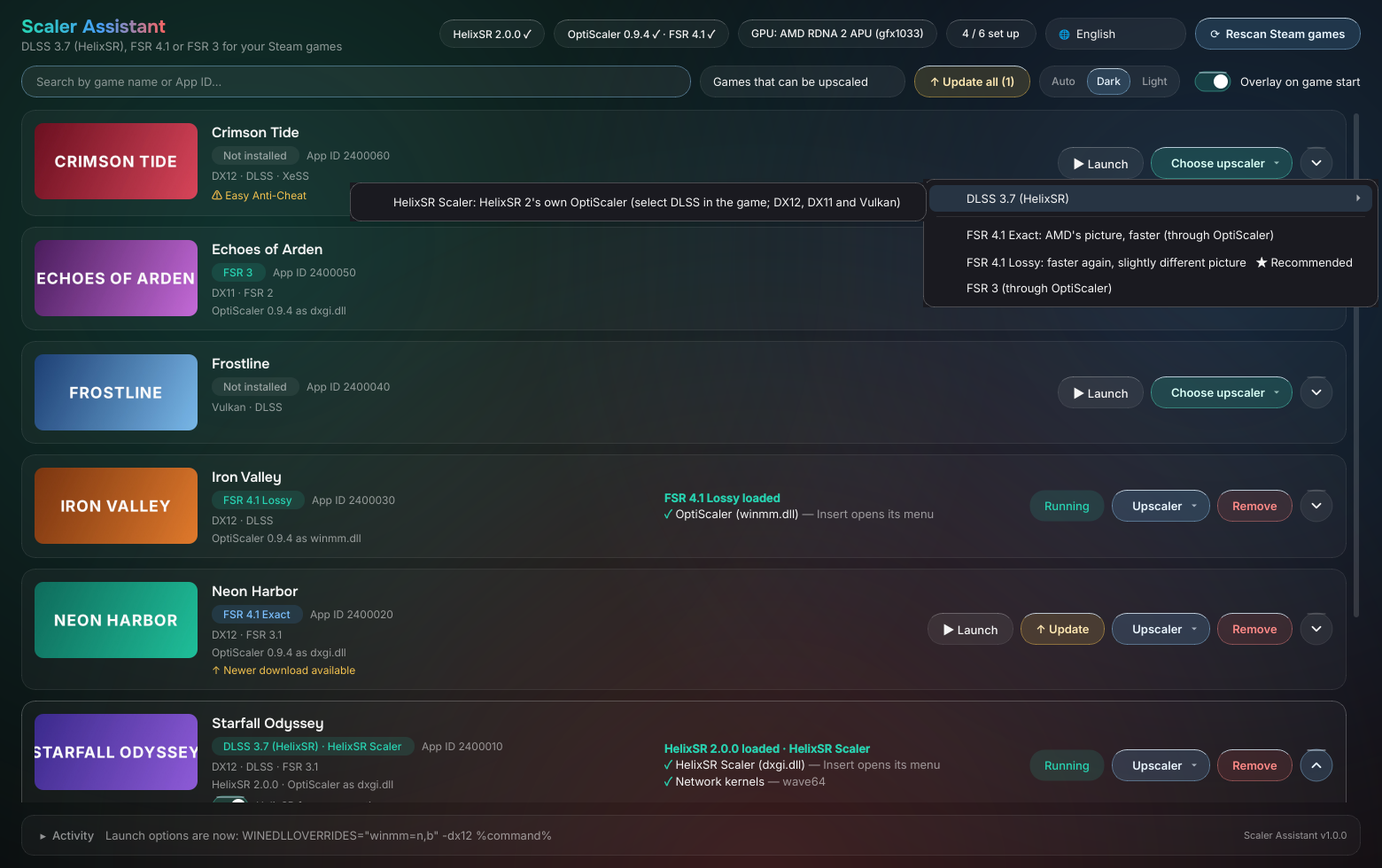
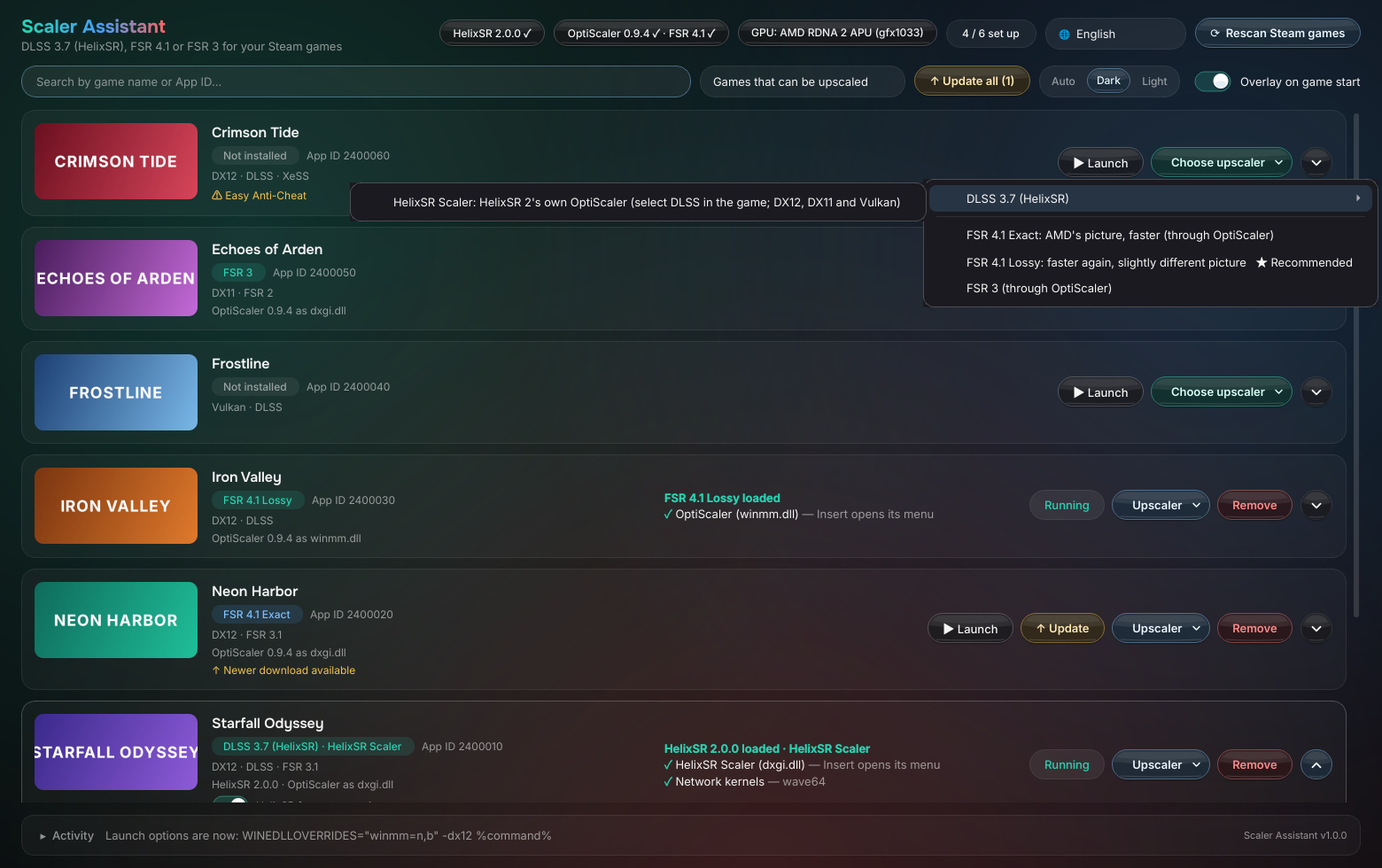
Paint buttons as raised crystal instead of a bright top edge
Every push button, switch knob and selected segment now stands up from
the page: a soft shadow below, a curved highlight that follows the rim
on the upper half and a glint along the lower rim. All layers are flat
translucent fills, still without gradients. The style sheet keeps sizing
the buttons and drawing their text.

diff --git a/scaler_assistant/theme.py b/scaler_assistant/theme.py
@@ -1,9 +1,10 @@
 """Visual system for Scaler Assistant, in MAKO Assistant's Liquid Glass style.
 
 Near-black ground lit by soft teal / blue / coral glows, glass panels with
-hairline borders. Buttons, switches and selected segments are clear crystal:
-a translucent tint, a light hairline border and a brighter top edge, never a
-gradient. Colours are tokens; `stylesheet()` renders the Qt style sheet from them.
+hairline borders. Buttons, switch knobs and selected segments are raised clear
+crystal: a translucent tint with a hairline border, a curved specular cap, a
+glint along the lower rim and a soft shadow, all flat translucent layers, never
+a gradient. Colours are tokens; `stylesheet()` renders the Qt style sheet from them.
 """
 
 from __future__ import annotations
@@ -13,7 +14,7 @@ from typing import Optional
 
 from PyQt6.QtCore import QPointF, QRectF, Qt
 from PyQt6.QtGui import (
-    QColor, QFontDatabase, QGuiApplication, QPainter, QPainterPath, QPixmap, QRadialGradient,
+    QColor, QFontDatabase, QGuiApplication, QPainter, QPainterPath, QPen, QPixmap, QRadialGradient,
 )
 
 TEAL, CORAL, PURPLE, BLUE = "#27d4b3", "#f86461", "#946eff", "#469ef6"
@@ -123,18 +124,82 @@ def qcolor(name: str) -> QColor:
     return QColor(value)
 
 
-def paint_glass(painter: QPainter, rect: QRectF, radius: float, fill: str = "glass",
-                border: str = "glass_border", edge: str = "glass_edge") -> None:
-    """A crystal surface: translucent tint, hairline border, brighter top edge (no gradient)."""
+def crystal_body(rect: QRectF, pressed: bool = False) -> QRectF:
+    """The raised crystal's own outline inside `rect` (room below it for its shadow)."""
+    drop = 1.0 if pressed else 0.0
+    return rect.adjusted(0.5, 0.5 + drop, -0.5, -2.5 + drop)
+
+
+def paint_crystal(painter: QPainter, rect: QRectF, radius: float, fill: str = "glass",
+                  border: str = "glass_border", hover: bool = False,
+                  pressed: bool = False) -> QRectF:
+    """A raised clear-crystal surface, painted with flat translucent layers only (no gradient):
+
+    * a soft shadow under it (a few stacked, offset translucent shapes),
+    * the translucent tint with a hairline border,
+    * a specular cap: a light, curved-edged shape over the upper part, inset from the rim,
+    * a thin glint along the inside of the lower rim (light passing through the crystal).
+
+    Pressed, it sits lower with a shorter shadow. Returns the body's rectangle."""
+    dark = _mode == "dark"
+    body = crystal_body(rect, pressed)
+    r = min(radius, body.height() / 2)
+    painter.save()
+    painter.setPen(Qt.PenStyle.NoPen)
+    layers = ((1.0, 0.30), (2.0, 0.16), (3.0, 0.07)) if dark else ((1.0, 0.12), (2.0, 0.07), (3.0, 0.03))
+    for offset, alpha in (layers[:1] if pressed else layers):
+        painter.setBrush(QColor(0, 0, 0, int(alpha * 255)))
+        painter.drawRoundedRect(body.translated(0, offset).adjusted(0.5, 0, -0.5, 0), r, r)
+    # a solid base keeps the tint readable over the glows and the cards
+    base = QColor(qcolor("bg")) if dark else QColor(255, 255, 255)
+    base.setAlphaF(0.55 if dark else 0.70)
+    painter.setBrush(base)
+    painter.drawRoundedRect(body, r, r)
     painter.setBrush(qcolor(fill))
     painter.setPen(qcolor(border))
-    painter.drawRoundedRect(rect, radius, radius)
-    path = QPainterPath()
-    inner = rect.adjusted(radius * 0.45, 0.5, -radius * 0.45, 0)
-    path.moveTo(inner.left(), inner.top() + 0.5)
-    path.lineTo(inner.right(), inner.top() + 0.5)
-    painter.setPen(qcolor(edge))
-    painter.drawPath(path)
+    painter.drawRoundedRect(body, r, r)
+
+    outline = QPainterPath()
+    outline.addRoundedRect(body.adjusted(1, 1, -1, -1), max(r - 1, 0), max(r - 1, 0))
+    painter.setClipPath(outline)
+    painter.setPen(Qt.PenStyle.NoPen)
+    # specular cap: the rim's own curve inset a little, cut off by a shallow arc at ~48 %,
+    # with a smaller cap on it for a soft falloff (stacked flat layers)
+    shine = 0.075 if dark else 0.30
+    if hover:
+        shine += 0.04 if dark else 0.10
+    if pressed:
+        shine *= 0.6
+    for inset, depth, alpha in ((1.6, 0.50, shine), (3.0, 0.34, shine * 0.8)):
+        ring = QPainterPath()
+        inner = body.adjusted(inset, inset * 0.8, -inset, -inset)
+        ring.addRoundedRect(inner, max(r - inset, 0), max(r - inset, 0))
+        cut = QPainterPath()
+        bottom = body.top() + body.height() * depth
+        cut.moveTo(body.left() - 1, body.top() - 1)
+        cut.lineTo(body.right() + 1, body.top() - 1)
+        cut.lineTo(body.right() + 1, bottom - body.height() * 0.10)
+        cut.quadTo(body.center().x(), bottom + body.height() * 0.10, body.left() - 1,
+                   bottom - body.height() * 0.10)
+        cut.closeSubpath()
+        painter.setBrush(QColor(255, 255, 255, int(alpha * 255)))
+        painter.drawPath(ring.intersected(cut))
+    # glint along the lower rim
+    glint = QPainterPath()
+    inner = body.adjusted(r * 0.6, 0, -r * 0.6, -2.2)
+    glint.moveTo(inner.left(), inner.bottom() - 1.2)
+    glint.quadTo(inner.center().x(), inner.bottom() + 0.6, inner.right(), inner.bottom() - 1.2)
+    painter.setBrush(Qt.BrushStyle.NoBrush)
+    painter.setPen(QPen(QColor(255, 255, 255, int((0.16 if dark else 0.55) * 255)), 1.0))
+    painter.drawPath(glint)
+    painter.restore()
+    return body
+
+
+def paint_glass(painter: QPainter, rect: QRectF, radius: float, fill: str = "glass",
+                border: str = "glass_border", edge: str = "glass_edge") -> None:
+    """A raised crystal surface (kept for the custom widgets; see paint_crystal)."""
+    paint_crystal(painter, rect, radius, fill, border)
 
 
 def paint_backdrop(painter: QPainter, rect: QRectF) -> None:
@@ -175,9 +240,9 @@ def _glass_button(selector: str, p: dict, kind: str = "") -> str:
     fg = p.get(f"glass{k}_fg", p["glass_fg"] if not kind else p["danger"])
     return f"""
 {selector} {{ background: {p[f'glass{k}']}; border: 1px solid {p[f'glass{k}_border']};
-    border-top-color: {p['glass_edge']}; color: {fg}; font-family: {BODY_SEMIBOLD}; }}
+    color: {fg}; font-family: {BODY_SEMIBOLD}; }}
 {selector}:hover {{ background: {p[f'glass{k}_hover']}; }}
-{selector}:pressed {{ background: {p[f'glass{k}']}; border-top-color: {p[f'glass{k}_border']}; }}
+{selector}:pressed {{ background: {p[f'glass{k}']}; }}
 {selector}:disabled {{ background: {p['field']}; border-color: {p['border']}; color: {p['faint']}; }}
 """
 
@@ -207,10 +272,9 @@ QLabel#card {{ background: {p['panel2']}; border: 1px solid {p['border']}; borde
     padding: 10px 12px; }}
 
 QLabel#pill, QPushButton#pill {{ background: {p['panel2']}; border: 1px solid {p['border']};
-    border-top-color: {p['edge']}; border-radius: 16px; padding: 0 14px; min-height: 30px;
+    border-radius: 16px; padding: 0 14px; min-height: 30px;
     max-height: 30px; font-family: {BODY_MEDIUM}; font-size: 12px; }}
-QPushButton#pill:hover {{ background: {p['field_hover']}; border-color: {p['border_hover']};
-    border-top-color: {p['edge']}; }}
+QPushButton#pill:hover {{ background: {p['field_hover']}; border-color: {p['border_hover']}; }}
 QLabel#chip {{ border-radius: 10px; padding: 3px 10px; font-family: {BODY_MEDIUM}; font-size: 12px; }}
 QLabel#chip[tone="ok"] {{ color: {p['ok']}; background: {p['ok_bg']}; }}
 QLabel#chip[tone="warn"] {{ color: {p['warn']}; background: {p['warn_bg']}; }}
@@ -230,10 +294,9 @@ QGroupBox {{ background: {p['panel2']}; border: 1px solid {p['border']}; border-
 QGroupBox::title {{ subcontrol-origin: margin; left: 14px; padding: 0 4px; color: {p['muted']};
     font-family: {DISPLAY}; }}
 
-QPushButton {{ background: {p['field']}; border: 1px solid {p['border']}; border-top-color: {p['edge']};
+QPushButton {{ background: {p['field']}; border: 1px solid {p['border']};
     border-radius: 17px; padding: 7px 16px; font-family: {BODY_MEDIUM}; min-height: 20px; }}
-QPushButton:hover {{ background: {p['field_hover']}; border-color: {p['border_hover']};
-    border-top-color: {p['edge']}; }}
+QPushButton:hover {{ background: {p['field_hover']}; border-color: {p['border_hover']}; }}
 QPushButton:pressed {{ background: {p['border']}; }}
 QPushButton:disabled {{ color: {p['faint']}; background: {p['field']}; border-color: {p['border']}; }}
 QPushButton:focus {{ border-color: {p['border_hover']}; }}
@@ -255,7 +318,7 @@ QPushButton#seg {{ background: transparent; border: 1px solid transparent; borde
     min-height: 18px; }}
 QPushButton#seg:hover {{ color: {p['fg']}; }}
 QPushButton#seg:checked {{ background: {p['glass']}; border-color: {p['glass_border']};
-    border-top-color: {p['glass_edge']}; color: {p['glass_fg']}; }}
+    color: {p['glass_fg']}; }}
 
 QLineEdit, QComboBox, QSpinBox, QDoubleSpinBox {{ background: {p['field']}; border: 1px solid {p['border']};
     border-radius: 17px; padding: 7px 14px; selection-background-color: {BLUE}; min-height: 20px; }}

diff --git a/scaler_assistant/widgets.py b/scaler_assistant/widgets.py
@@ -7,12 +7,13 @@ import html
 from typing import Any, Callable, Optional
 
 from PyQt6.QtCore import (
-    QEasingCurve, QPointF, QPropertyAnimation, QRectF, QSize, Qt, pyqtProperty, pyqtSignal,
+    QEasingCurve, QEvent, QObject, QPointF, QPropertyAnimation, QRectF, QSize, Qt, pyqtProperty,
+    pyqtSignal,
 )
 from PyQt6.QtGui import QColor, QFont, QFontMetrics, QLinearGradient, QPainter, QPainterPath, QPen, QPixmap
 from PyQt6.QtWidgets import (
     QAbstractButton, QButtonGroup, QFrame, QGridLayout, QHBoxLayout, QLabel, QMenu, QPushButton,
-    QSizePolicy, QVBoxLayout, QWidget,
+    QSizePolicy, QStyle, QStyleOptionButton, QVBoxLayout, QWidget,
 )
 
 from . import theme
@@ -41,6 +42,76 @@ def choice_text(choice: Optional[str]) -> str:
 
 
 # ---- primitives ---------------------------------------------------------------------------------
+
+# fill, fill on hover, border: per push button object name ("" = an ordinary button)
+_CRYSTAL = {
+    "": ("field", "field_hover", "border_hover"),
+    "pill": ("panel2", "field_hover", "border_hover"),
+    "primary": ("glass", "glass_hover", "glass_border"),
+    "install": ("glass_ok", "glass_ok_hover", "glass_ok_border"),
+    "update": ("glass_warn", "glass_warn_hover", "glass_warn_border"),
+    "danger": ("glass_danger", "glass_danger_hover", "glass_danger_border"),
+    "running": ("ok_bg", "ok_bg", "glass_ok_border"),
+    "seg": ("glass", "glass_hover", "glass_border"),
+}
+
+
+class CrystalButtons(QObject):
+    """Paints every push button as a raised crystal (theme.paint_crystal); the style sheet
+    still sizes them and draws their text, icon and colours."""
+
+    def eventFilter(self, obj, event) -> bool:
+        if event.type() != QEvent.Type.Paint or not isinstance(obj, QPushButton):
+            return False
+        name = obj.objectName()
+        if name not in _CRYSTAL and name.startswith("qt_"):
+            name = ""   # Qt's own buttons (message boxes, dialogs)
+        if name not in _CRYSTAL or (name == "seg" and not obj.isChecked()):
+            return False
+        paint_button(obj, *_CRYSTAL[name])
+        return True
+
+
+def paint_button(button: QPushButton, fill: str, hover_fill: str, border: str) -> None:
+    p = QPainter(button)
+    p.setRenderHint(QPainter.RenderHint.Antialiasing)
+    rect = QRectF(button.rect())
+    pressed = button.isDown()
+    if button.isEnabled():
+        hover = button.underMouse()
+        body = theme.paint_crystal(p, rect, rect.height() / 2, hover_fill if hover else fill,
+                                   border, hover=hover, pressed=pressed)
+    else:
+        body = theme.crystal_body(rect)
+        p.setBrush(theme.qcolor("field"))
+        p.setPen(theme.qcolor("border"))
+        p.drawRoundedRect(body, body.height() / 2, body.height() / 2)
+    option = QStyleOptionButton()   # (initStyleOption is protected for Qt's own buttons)
+    option.initFrom(button)
+    option.text = button.text()
+    option.icon = button.icon()
+    option.iconSize = button.iconSize()
+    if button.menu() is not None:
+        option.features |= QStyleOptionButton.ButtonFeature.HasMenu
+    if pressed:
+        option.state |= QStyle.StateFlag.State_Sunken
+    if button.isChecked():
+        option.state |= QStyle.StateFlag.State_On
+    option.rect = body.toAlignedRect()
+    button.style().drawControl(QStyle.ControlElement.CE_PushButtonLabel, option, p, button)
+    if button.menu() is not None:
+        color = QColor(button.palette().buttonText().color())
+        p.setPen(QPen(color, 1.5, Qt.PenStyle.SolidLine, Qt.PenCapStyle.RoundCap,
+                      Qt.PenJoinStyle.RoundJoin))
+        p.setBrush(Qt.BrushStyle.NoBrush)
+        c = QPointF(body.right() - 15, body.center().y())
+        arrow = QPainterPath()
+        arrow.moveTo(c + QPointF(-3.5, -1.5))
+        arrow.lineTo(c + QPointF(0, 2))
+        arrow.lineTo(c + QPointF(3.5, -1.5))
+        p.drawPath(arrow)
+    p.end()
+
 
 class Switch(QAbstractButton):
     """Pill toggle: clear crystal track when on, sliding white knob."""
@@ -84,17 +155,29 @@ class Switch(QAbstractButton):
         p.setRenderHint(QPainter.RenderHint.Antialiasing)
         r = QRectF(1, 1, self.width() - 2, self.height() - 2)
         radius = r.height() / 2
-        if self.isChecked() and self.isEnabled():
-            theme.paint_glass(p, r, radius, "glass_ok", "glass_ok_border")
-        else:
-            p.setBrush(theme.qcolor("track"))
-            p.setPen(theme.qcolor("border"))
-            p.drawRoundedRect(r, radius, radius)
-        knob = r.height() - 6
-        x = r.left() + 3 + self._offset * (r.width() - knob - 6)
+        on = self.isChecked() and self.isEnabled()
+        p.setBrush(theme.qcolor("glass_ok" if on else "track"))   # the track sits in, flat
+        p.setPen(theme.qcolor("glass_ok_border" if on else "border"))
+        p.drawRoundedRect(r, radius, radius)
+        knob = r.height() - 5
+        x = r.left() + 2.5 + self._offset * (r.width() - knob - 5)
+        ball = QRectF(x, r.top() + 2, knob, knob)
         p.setPen(Qt.PenStyle.NoPen)
+        if self.isEnabled():   # the knob stands up out of it: shadow, then a glossy cap
+            for dy, alpha in ((1.0, 60), (2.0, 28)):
+                p.setBrush(QColor(0, 0, 0, alpha))
+                p.drawEllipse(ball.translated(0, dy))
         p.setBrush(QColor(255, 255, 255, 255 if self.isEnabled() else 150))
-        p.drawEllipse(QRectF(x, r.top() + 3, knob, knob))
+        p.drawEllipse(ball)
+        if self.isEnabled():
+            p.setBrush(QColor(255, 255, 255))
+            p.setPen(QPen(QColor(0, 0, 0, 22), 0.8))
+            p.drawEllipse(ball.adjusted(0.4, 0.4, -0.4, -0.4))
+            p.setPen(Qt.PenStyle.NoPen)
+            p.setBrush(QColor(200, 214, 230, 110))   # the lower half catches less light
+            lower = QPainterPath()
+            lower.addEllipse(ball.adjusted(2.5, ball.height() * 0.48, -2.5, -1.2))
+            p.drawPath(lower)
 
 
 class ChevronButton(QAbstractButton):

diff --git a/scaler_assistant/ui.py b/scaler_assistant/ui.py
@@ -36,7 +36,8 @@ from .service import (
     NeedsHelixSRError, SteamMustCloseError, choice_label, component_label, upscaler_of,
 )
 from .widgets import (
-    API_LABELS, THUMB_H, THUMB_W, Backdrop, GameCard, Segmented, Switch, Wordmark, live_html,
+    API_LABELS, THUMB_H, THUMB_W, Backdrop, CrystalButtons, GameCard, Segmented, Switch, Wordmark,
+    live_html,
 )
 
 POLL_MS = 3000
@@ -1460,6 +1461,9 @@ def prepare_app(app: QApplication, service: AssistantService) -> None:
     theme.load_fonts()
     theme.set_mode(theme.resolve(service.theme))
     app.setStyleSheet(theme.stylesheet())
+    if not hasattr(app, "_crystal_buttons"):
+        app._crystal_buttons = CrystalButtons(app)
+        app.installEventFilter(app._crystal_buttons)
 
 
 def main() -> int:

diff --git a/README.md b/README.md
@@ -56,7 +56,7 @@ Multilingual release notes for each version are in [`docs/releases/`](docs/relea
 - **Switch, update, repair, remove**: switching removes the current choice first; "Update all" brings games to your HelixSR build and the current downloads; "Repair" fixes games after a game update (and a missing launch option); removal puts every file back.
 - **HelixSR settings** (`helixsr.ini`) as a form, **live status** of what is really loaded in a running game, and an **overlay** when a game starts.
 - **Works with HelixSR's own setup**: same install record (`helixsr-install.json`) and backups for DLSS 3.7.
-- **Liquid Glass look** (after MAKO Assistant): a card per game with its cover, status and a details panel; clear crystal buttons without gradients; dark, light or automatic theme.
+- **Liquid Glass look** (after MAKO Assistant): a card per game with its cover, status and a details panel; raised clear-crystal buttons (highlight, rim glint and soft shadow, no gradients); dark, light or automatic theme.
 - **Steam Deck plugin (Decky Loader)**: the same choices, downloads, OptiScaler name and launch-option handling from the Quick Access menu in Game Mode, with a notification when a game starts. It shares settings and downloads with the desktop app. HelixSR's own `helixsr.ini` settings stay in the desktop app.
 - **Languages**: 台灣正體中文, 简体中文, English, 日本語, Deutsch, Français, Español, Italiano, ไทย, Tiếng Việt, Bahasa Melayu, हिन्दी.
 
@@ -169,7 +169,7 @@ Scaler Assistant is an independent, unofficial tool, not affiliated with or endo
 - **切換、更新、修復、移除**：切換時先移除目前的選項；「全部更新」把遊戲更新到你的 HelixSR 版本與目前的下載檔；「修復」處理遊戲更新後的問題（以及消失的啟動選項）；移除時所有檔案恢復原狀。
 - 以表單調整 **HelixSR 設定**（`helixsr.ini`）、顯示執行中遊戲真正載入了什麼的**即時狀態**，以及遊戲啟動時的**浮動提示**。
 - **與 HelixSR 本身的 setup 互通**：DLSS 3.7 使用相同的安裝紀錄（`helixsr-install.json`）和備份。
-- **Liquid Glass 外觀**（參考 MAKO Assistant）：每款遊戲一張卡片，含封面、狀態與詳細資訊面板；按鈕為不帶漸層的水晶通透風格；深色、淺色或自動主題。
+- **Liquid Glass 外觀**（參考 MAKO Assistant）：每款遊戲一張卡片，含封面、狀態與詳細資訊面板；按鈕為立體浮起的水晶風格（弧形反光、下緣微光與柔和陰影，不帶漸層）；深色、淺色或自動主題。
 - **Steam Deck 外掛（Decky Loader）**：在遊戲模式的快速存取選單中做同樣的選擇、下載、OptiScaler 檔名與啟動選項處理，遊戲啟動時會顯示通知。設定與下載檔和桌面版共用。HelixSR 本身的 `helixsr.ini` 設定仍在桌面版調整。
 - **語言**：台灣正體中文、简体中文、English、日本語、Deutsch、Français、Español、Italiano、ไทย、Tiếng Việt、Bahasa Melayu、हिन्दी。
 

diff --git a/docs/features/th.md b/docs/features/th.md
@@ -128,7 +128,7 @@
 ### 11. หน้าตา
 
 - ตามสไตล์ "Liquid Glass" ของ MAKO Assistant: การ์ดหนึ่งใบต่อหนึ่งเกม มีภาพปกจาก Steam ป้ายสถานะ สิ่งที่เกมรองรับ และเมื่อเกมทำงานจะแสดงสิ่งที่โหลดอยู่จริง ปุ่ม ⌄ เปิดรายละเอียด (กราฟิก API อัปสเกลเลอร์ โฟลเดอร์ `.exe` ชื่อของ OptiScaler ตัวเลือกการเปิดเกม) และคำสั่งที่ใช้ไม่บ่อย
-- ปุ่มเป็นแบบคริสตัลโปร่งใส: สีอ่อน ๆ ขอบบาง และขอบบนสว่างกว่า ไม่มีการไล่สี สีเขียวอมฟ้าคือติดตั้ง สีน้ำเงินคือเปลี่ยน สีอำพันคืออัปเดต สีแดงคือลบ
+- ปุ่มเป็นคริสตัลใสแบบนูน: สีอ่อนพร้อมขอบบาง แสงสะท้อนโค้งที่ครึ่งบน ประกายแสงตามขอบล่างด้านใน และเงานุ่ม ๆ ด้านล่าง ทั้งหมดเป็นชั้นโปร่งแสงสีเรียบ ไม่มีการไล่สี ปุ่มกลมของสวิตช์ก็นูนขึ้นแบบเดียวกัน และธีมที่เลือกเป็นคริสตัลนูนในร่องที่ลึกลง สีฟ้าอมเขียวคือติดตั้ง สีน้ำเงินคือเปลี่ยน สีเหลืองอำพันคืออัปเดต สีแดงคือลบ
 - ธีมมืด สว่าง หรืออัตโนมัติ (ตามเดสก์ท็อป) บันทึกกิจกรรมอยู่ในลิ้นชักด้านล่างของหน้าต่าง
 
 ## HelixSR 2.0 และ GPU

diff --git a/docs/features/hi.md b/docs/features/hi.md
@@ -128,7 +128,7 @@ DLSS 3.7 के लिए "⚙ सेटिंग्स" गेम की `helix
 ### 11. रूप-रंग
 
 - MAKO Assistant की "Liquid Glass" शैली में: हर गेम का एक कार्ड, जिसमें Steam कवर, स्थिति चिप, गेम क्या देता है और चलते समय असल में क्या लोड है, दिखता है। ⌄ बटन विवरण (ग्राफ़िक्स API, अपस्केलर, `.exe` फ़ोल्डर, OptiScaler का नाम, लॉन्च विकल्प) और कम इस्तेमाल होने वाले काम खोलता है।
-- बटन क्रिस्टल जैसे पारदर्शी हैं: हल्का रंग, पतली किनारी और ऊपर का चमकीला किनारा, बिना ग्रेडिएंट। टील इंस्टॉल करता है, नीला बदलता है, एम्बर अपडेट करता है, लाल हटाता है।
+- बटन उभरे हुए पारदर्शी क्रिस्टल हैं: हल्का रंग और पतली किनारी, ऊपरी आधे पर घुमावदार चमक, निचले किनारे के भीतर हल्की रोशनी और नीचे नरम छाया — सब सपाट पारभासी परतें, कोई ग्रेडिएंट नहीं। स्विच के नॉब भी इसी तरह उभरे हैं; चुनी गई थीम धँसी हुई पट्टी में उभरा क्रिस्टल है। फ़िरोज़ी इंस्टॉल, नीला बदलाव, एम्बर अपडेट, लाल हटाना।
 - डार्क, लाइट या ऑटोमैटिक थीम (डेस्कटॉप के अनुसार)। गतिविधि लॉग विंडो के नीचे की दराज़ में है।
 
 ## HelixSR 2.0 और GPU

diff --git a/docs/features/vi.md b/docs/features/vi.md
@@ -128,7 +128,7 @@ Với DLSS 3.7, "⚙ Cài đặt" sửa `helixsr.ini` của game bằng biểu m
 ### 11. Giao diện
 
 - Theo phong cách "Liquid Glass" của MAKO Assistant: mỗi game một thẻ với ảnh bìa Steam, nhãn trạng thái, những gì game hỗ trợ và, khi đang chạy, những gì thật sự đã được nạp. Nút ⌄ mở chi tiết (API đồ họa, bộ upscale, thư mục `.exe`, tên OptiScaler, tùy chọn khởi chạy) và các thao tác ít dùng.
-- Nút trong suốt như pha lê: sắc màu nhạt, viền mảnh và mép trên sáng hơn, không dùng chuyển màu. Xanh mòng két là cài, xanh dương là đổi, hổ phách là cập nhật, đỏ là gỡ.
+- Nút là pha lê trong nổi khối: sắc màu nhạt với viền mảnh, vệt sáng cong ở nửa trên, ánh sáng dọc mép dưới bên trong và bóng mềm bên dưới — tất cả là các lớp trong mờ phẳng, không dùng chuyển màu. Núm công tắc cũng nổi lên như vậy; mục giao diện đang chọn là pha lê nổi trong rãnh lõm. Xanh ngọc là cài đặt, xanh dương là chuyển đổi, hổ phách là cập nhật, đỏ là gỡ bỏ.
 - Giao diện tối, sáng hoặc tự động (theo desktop). Nhật ký hoạt động nằm trong ngăn kéo ở đáy cửa sổ.
 
 ## HelixSR 2.0 và GPU

diff --git a/docs/features/fr.md b/docs/features/fr.md
@@ -128,7 +128,7 @@ Pour DLSS 3.7, « ⚙ Réglages » modifie le `helixsr.ini` du jeu par un formul
 ### 11. Apparence
 
 - Dans le style de MAKO Assistant (« Liquid Glass ») : une carte par jeu avec sa jaquette Steam, une pastille d'état, ce que le jeu propose et, pendant qu'il tourne, ce qui est réellement chargé. Le bouton ⌄ ouvre les détails (API graphique, upscalers, dossier du `.exe`, nom d'OptiScaler, options de lancement) et les actions moins courantes.
-- Les boutons sont en cristal transparent : une teinte légère, une bordure fine et un bord supérieur plus clair, sans dégradé. Turquoise installe, bleu change, ambre met à jour, rouge supprime.
+- Les boutons sont en cristal clair en relief : une teinte légère avec une bordure fine, un reflet courbe sur la moitié haute, un éclat le long du bord inférieur et une ombre douce dessous — uniquement des couches translucides unies, sans dégradé. Les boutons des interrupteurs ressortent de la même façon ; le thème choisi est un cristal en relief dans une piste creusée. Turquoise installe, bleu change, ambre met à jour, rouge supprime.
 - Thème sombre, clair ou automatique (suit le bureau). Le journal d'activité est le tiroir en bas de la fenêtre.
 
 ## HelixSR 2.0 et le GPU

diff --git a/docs/features/it.md b/docs/features/it.md
@@ -128,7 +128,7 @@ Con DLSS 3.7, «⚙ Impostazioni» modifica l'`helixsr.ini` del gioco con un mod
 ### 11. Aspetto
 
 - Nello stile di MAKO Assistant («Liquid Glass»): una scheda per gioco con la copertina Steam, un'etichetta di stato, ciò che il gioco offre e, mentre è in esecuzione, ciò che è davvero caricato. Il pulsante ⌄ apre i dettagli (API grafica, upscaler, cartella dell'`.exe`, nome di OptiScaler, opzioni di avvio) e le azioni meno frequenti.
-- I pulsanti sono di cristallo trasparente: una tinta leggera, un bordo sottile e un bordo superiore più chiaro, senza sfumature. Verde acqua installa, blu cambia, ambra aggiorna, rosso rimuove.
+- I pulsanti sono cristallo trasparente in rilievo: una tinta leggera con un bordo sottile, un riflesso curvo sulla metà superiore, un bagliore lungo il bordo inferiore e un'ombra morbida sotto, tutto a strati traslucidi piatti, senza sfumature. Le manopole degli interruttori sporgono allo stesso modo; il tema scelto è un cristallo in rilievo in una pista incassata. Turchese installa, blu cambia, ambra aggiorna, rosso rimuove.
 - Tema scuro, chiaro o automatico (segue il desktop). Il registro attività è il cassetto in fondo alla finestra.
 
 ## HelixSR 2.0 e la GPU

diff --git a/docs/features/es.md b/docs/features/es.md
@@ -128,7 +128,7 @@ Con DLSS 3.7, «⚙ Ajustes» edita el `helixsr.ini` del juego con un formulario
 ### 11. Aspecto
 
 - Al estilo de MAKO Assistant («Liquid Glass»): una tarjeta por juego con su portada de Steam, una etiqueta de estado, lo que ofrece el juego y, mientras se ejecuta, lo que de verdad está cargado. El botón ⌄ abre los detalles (API gráfica, escaladores, carpeta del `.exe`, nombre de OptiScaler, opciones de lanzamiento) y las acciones menos frecuentes.
-- Los botones son de cristal transparente: un tinte suave, un borde fino y un borde superior más claro, sin degradados. Turquesa instala, azul cambia, ámbar actualiza, rojo quita.
+- Los botones son cristal transparente en relieve: un tinte suave con un borde fino, un brillo curvo en la mitad superior, un destello en el borde inferior y una sombra suave debajo, todo con capas translúcidas planas, sin degradados. Los mandos de los interruptores sobresalen igual; el tema elegido es un cristal en relieve dentro de un carril hundido. Turquesa instala, azul cambia, ámbar actualiza, rojo quita.
 - Tema oscuro, claro o automático (sigue al escritorio). El registro de actividad es el cajón al pie de la ventana.
 
 ## HelixSR 2.0 y la GPU

diff --git a/docs/features/de.md b/docs/features/de.md
@@ -128,7 +128,7 @@ Für DLSS 3.7 bearbeitet „⚙ Einstellungen“ die `helixsr.ini` des Spiels al
 ### 11. Aussehen
 
 - Im Stil von MAKO Assistant („Liquid Glass“): eine Karte pro Spiel mit Steam-Cover, Status-Chip, dem, was das Spiel bietet, und während es läuft, dem, was wirklich geladen ist. Die ⌄-Taste öffnet die Details (Grafik-API, Upscaler, `.exe`-Ordner, OptiScalers Name, Startoptionen) und seltenere Aktionen.
-- Die Tasten sind klar wie Kristall: leichte Tönung, feiner Rand und hellere Oberkante, ohne Verläufe. Petrol installiert, Blau wechselt, Bernstein aktualisiert, Rot entfernt.
+- Tasten sind erhabener, klarer Kristall: leichte Tönung mit feinem Rand, ein gebogener Glanz auf der oberen Hälfte, ein Lichtsaum am unteren Rand und ein weicher Schatten darunter – alles flache, durchscheinende Ebenen, keine Verläufe. Schalterknöpfe heben sich ebenso ab; das gewählte Design-Segment ist ein erhabener Kristall in einer vertieften Spur. Türkis installiert, Blau wechselt, Bernstein aktualisiert, Rot entfernt.
 - Dunkles, helles oder automatisches Design (folgt dem Desktop). Das Aktivitätsprotokoll ist die Schublade am unteren Fensterrand.
 
 ## HelixSR 2.0 und die GPU
